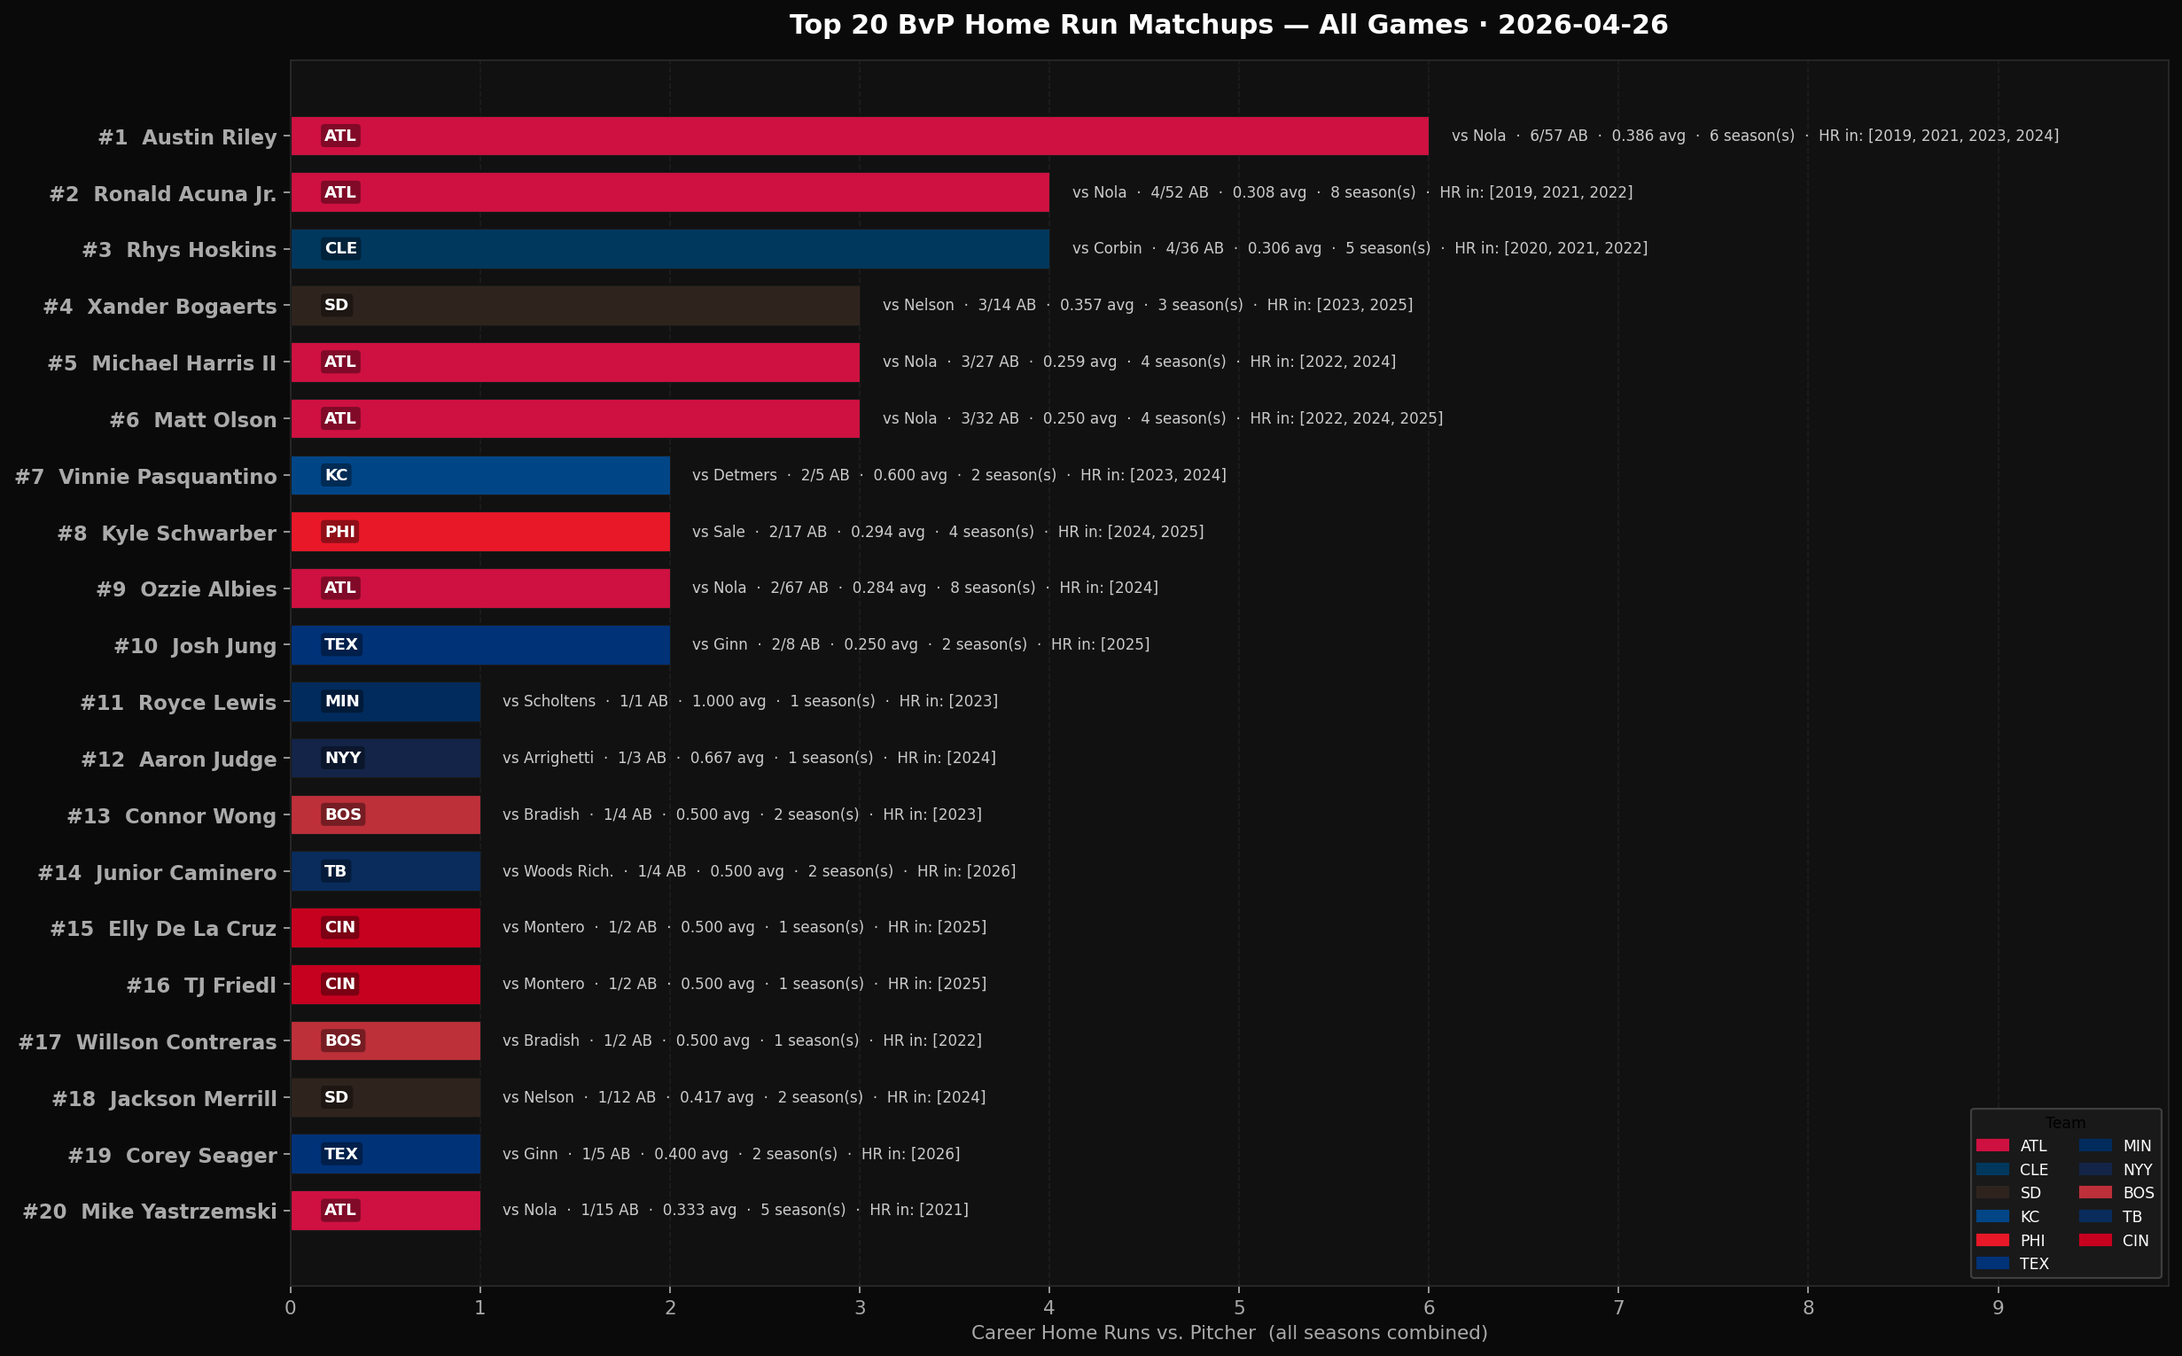
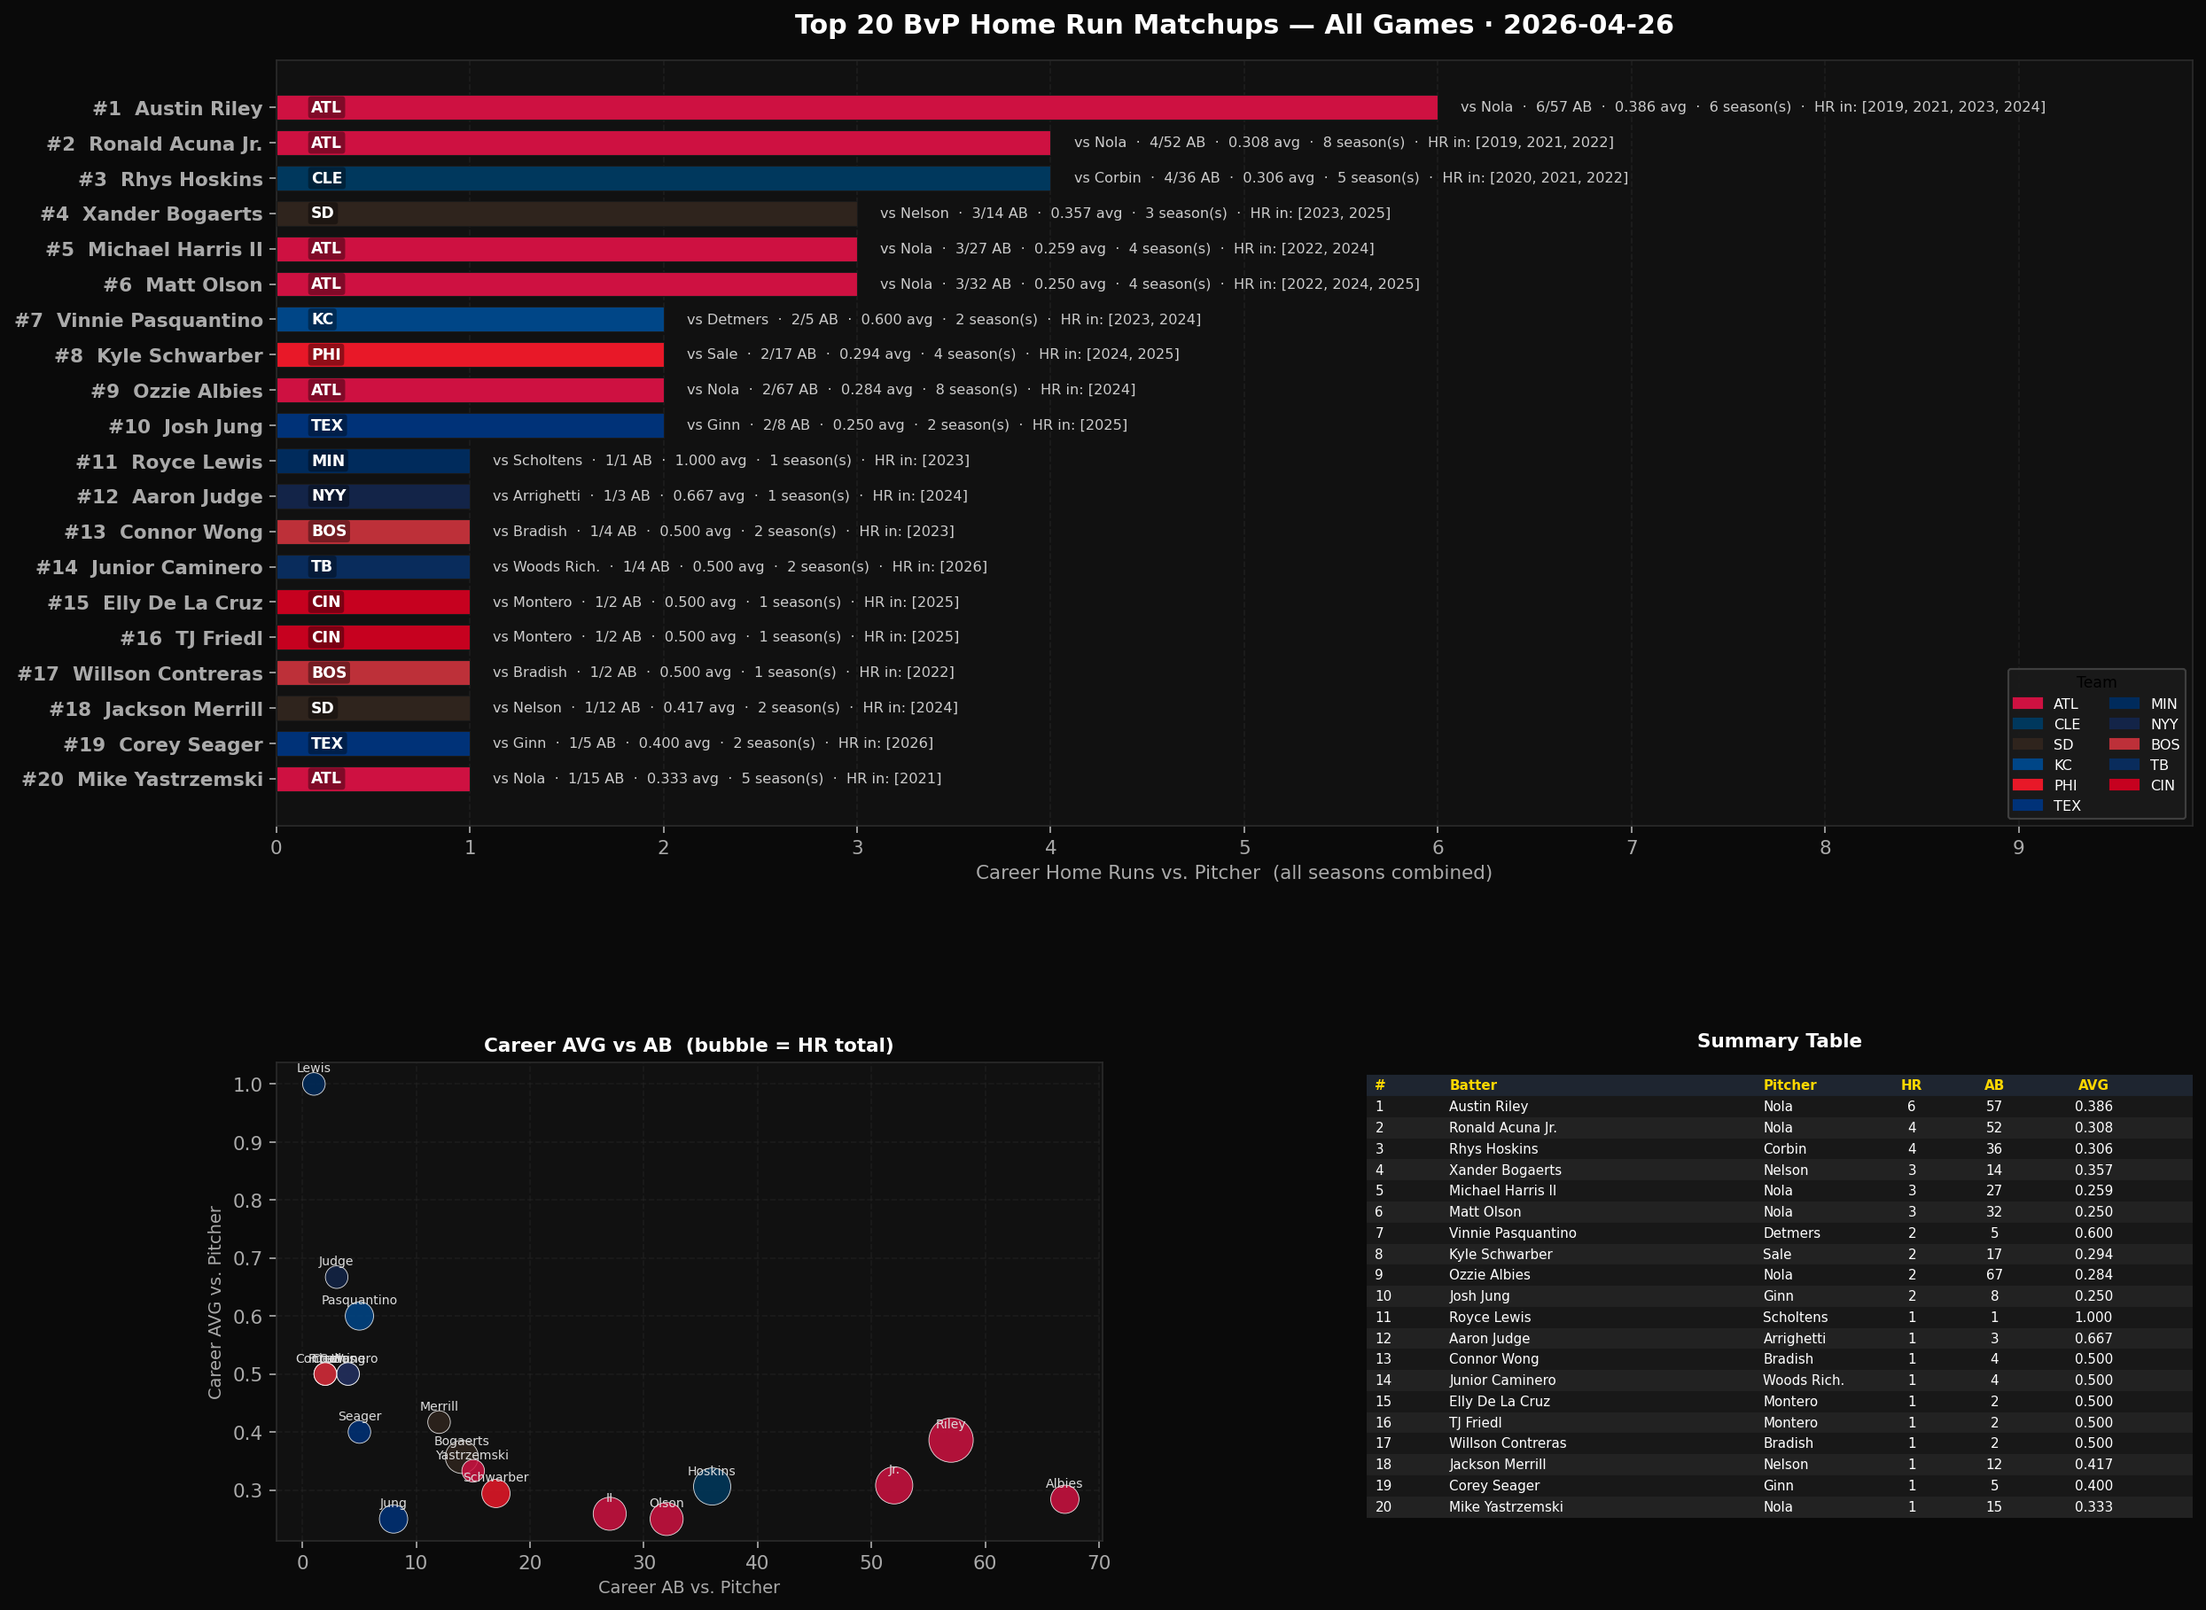
REPORTS WITH TABLES

diff --git a/Streamlit/scripts/bvp_hr_reports.py b/Streamlit/scripts/bvp_hr_reports.py
@@ -163,60 +163,122 @@ def bar_color(team):
     return TEAM_COLORS.get(team, '#666666')
 
 
+# ── Shared: draw a summary table on an axis ───────────────────────────────────
+def _draw_table(ax, rows, headers, col_xs, col_aligns, tiny_ab_col=None, tiny_thresh=5):
+    """Render a plain text table onto a pre-existing axis."""
+    ax.axis('off')
+    rh = 0.044
+    sy = 0.97
+    all_rows = [headers] + rows
+    for ri, row_data in enumerate(all_rows):
+        y = sy - ri * rh
+        bg = '#1E2530' if ri == 0 else ('#222222' if ri % 2 == 0 else '#181818')
+        ax.add_patch(plt.Rectangle((0, y - rh + 0.003), 1.0, rh - 0.002,
+                                    color=bg, transform=ax.transAxes, zorder=1))
+        for ci, (cell, cx, align) in enumerate(zip(row_data, col_xs, col_aligns)):
+            is_tiny = (ri > 0 and tiny_ab_col is not None
+                       and int(rows[ri - 1][tiny_ab_col] or 0) < tiny_thresh)
+            clr = '#FFD700' if ri == 0 else ('#FFAA33' if is_tiny else 'white')
+            fw  = 'bold' if ri == 0 else 'normal'
+            ax.text(cx, y - rh / 2 + 0.003, cell,
+                    transform=ax.transAxes, fontsize=7.0, color=clr,
+                    fontweight=fw, va='center', ha=align, zorder=2)
+    ax.set_xlim(0, 1)
+    ax.set_ylim(0, 1)
+
+
 # ── Report 1: Top 20 raw career HR ───────────────────────────────────────────
 def report_career_hr(results, date_str, out_path):
-    top = sorted(results, key=lambda x: (-x['career_hr'], -x['career_avg'], -x['career_ab']))[:20]
-    n = len(top)
+    from matplotlib.gridspec import GridSpec
 
-    fig, ax = plt.subplots(figsize=(16, 10), facecolor=DARK_BG)
-    ax.set_facecolor(BAR_BG)
+    top = sorted(results, key=lambda x: (-x['career_hr'], -x['career_avg'], -x['career_ab']))[:20]
+    n   = len(top)
+
+    fig = plt.figure(figsize=(18, 14), facecolor=DARK_BG)
+    gs  = GridSpec(2, 2, figure=fig, height_ratios=[1.6, 1], hspace=0.38, wspace=0.32)
+
+    # ── Top: horizontal bar chart (full width) ────────────────────────────────
+    ax_bar = fig.add_subplot(gs[0, :])
+    ax_bar.set_facecolor(BAR_BG)
 
     colors = [bar_color(r['team']) for r in top]
-    bars   = ax.barh(range(n), [r['career_hr'] for r in top],
-                     color=colors, height=0.70, zorder=3,
-                     edgecolor='#1a1a1a', linewidth=0.5)
+    bars   = ax_bar.barh(range(n), [r['career_hr'] for r in top],
+                         color=colors, height=0.70, zorder=3,
+                         edgecolor='#1a1a1a', linewidth=0.5)
 
-    ax.set_yticks(range(n))
-    ax.set_yticklabels([f"#{i+1}  {top[i]['batter']}" for i in range(n)],
-                       fontsize=10.5, color='white', fontweight='bold')
-    ax.set_xlabel("Career Home Runs vs. Pitcher  (all seasons combined)", color=AXIS_CLR, fontsize=10)
-    ax.set_title(f"Top 20 BvP Home Run Matchups — All Games · {date_str}",
-                 color='white', fontsize=14, fontweight='bold', pad=14)
-    ax.tick_params(colors=AXIS_CLR)
-    ax.spines[:].set_color(GRID_CLR)
-    ax.invert_yaxis()
-    ax.set_xlim(0, max(r['career_hr'] for r in top) * 1.65)
-    ax.xaxis.set_major_locator(plt.MaxNLocator(integer=True))
-    ax.grid(axis='x', color=GRID_CLR, linestyle='--', alpha=0.5, zorder=0)
+    ax_bar.set_yticks(range(n))
+    ax_bar.set_yticklabels([f"#{i+1}  {top[i]['batter']}" for i in range(n)],
+                           fontsize=10, color='white', fontweight='bold')
+    ax_bar.set_xlabel("Career Home Runs vs. Pitcher  (all seasons combined)", color=AXIS_CLR, fontsize=10)
+    ax_bar.set_title(f"Top 20 BvP Home Run Matchups — All Games · {date_str}",
+                     color='white', fontsize=14, fontweight='bold', pad=14)
+    ax_bar.tick_params(colors=AXIS_CLR)
+    ax_bar.spines[:].set_color(GRID_CLR)
+    ax_bar.invert_yaxis()
+    ax_bar.set_xlim(0, max(r['career_hr'] for r in top) * 1.65)
+    ax_bar.xaxis.set_major_locator(plt.MaxNLocator(integer=True))
+    ax_bar.grid(axis='x', color=GRID_CLR, linestyle='--', alpha=0.5, zorder=0)
 
     for i, (bar, r) in enumerate(zip(bars, top)):
         bw = bar.get_width()
         by = bar.get_y() + bar.get_height() / 2
+        ax_bar.text(0.18, by, r['team'],
+                    va='center', ha='left', fontsize=8, color='white', fontweight='bold',
+                    bbox=dict(boxstyle='round,pad=0.20', facecolor='#00000060', edgecolor='none'),
+                    zorder=5)
+        ax_bar.text(bw + 0.12, by,
+                    f"vs {r['pitcher']}  ·  {r['career_hr']}/{r['career_ab']} AB  ·  "
+                    f"{r['career_avg']:.3f} avg  ·  {r['num_seasons']} season(s)  ·  "
+                    f"HR in: {r['hr_seasons']}",
+                    va='center', ha='left', fontsize=7.5, color=LABEL_CLR)
 
-        # Team badge inside bar
-        ax.text(0.18, by, r['team'],
-                va='center', ha='left', fontsize=8.5, color='white', fontweight='bold',
-                bbox=dict(boxstyle='round,pad=0.22', facecolor='#00000060', edgecolor='none'),
-                zorder=5)
-
-        # Stats outside bar
-        ax.text(bw + 0.12, by,
-                f"vs {r['pitcher']}  ·  {r['career_hr']}/{r['career_ab']} AB  ·  "
-                f"{r['career_avg']:.3f} avg  ·  {r['num_seasons']} season(s)  ·  "
-                f"HR in: {r['hr_seasons']}",
-                va='center', ha='left', fontsize=7.8, color=LABEL_CLR)
-
-    # Legend — unique teams present
     seen = {}
     for r in top:
         if r['team'] not in seen:
             seen[r['team']] = bar_color(r['team'])
     patches = [mpatches.Patch(color=c, label=t) for t, c in seen.items()]
-    ax.legend(handles=patches, loc='lower right', fontsize=8, facecolor='#1a1a1a',
-              edgecolor='#444', labelcolor='white', title='Team', title_fontsize=8,
-              framealpha=0.9, ncol=2)
+    ax_bar.legend(handles=patches, loc='lower right', fontsize=7.5, facecolor='#1a1a1a',
+                  edgecolor='#444', labelcolor='white', title='Team', title_fontsize=8,
+                  framealpha=0.9, ncol=2)
 
-    plt.tight_layout()
+    # ── Bottom-left: scatter (Career AVG vs AB, bubble = HR total) ───────────
+    ax_sc = fig.add_subplot(gs[1, 0])
+    ax_sc.set_facecolor(BAR_BG)
+    sc_colors = [bar_color(r['team']) for r in top]
+    ax_sc.scatter(
+        [r['career_ab']  for r in top],
+        [r['career_avg'] for r in top],
+        c=sc_colors,
+        s=[r['career_hr'] * 80 + 60 for r in top],
+        alpha=0.85, zorder=3, edgecolors='white', linewidths=0.4,
+    )
+    for r in top:
+        ax_sc.annotate(r['batter'].split()[-1],
+                       (r['career_ab'], r['career_avg']),
+                       fontsize=6.5, color='#DDDDDD', ha='center', va='bottom',
+                       xytext=(0, 5), textcoords='offset points')
+    ax_sc.set_xlabel("Career AB vs. Pitcher", color=AXIS_CLR, fontsize=9)
+    ax_sc.set_ylabel("Career AVG vs. Pitcher", color=AXIS_CLR, fontsize=9)
+    ax_sc.set_title("Career AVG vs AB  (bubble = HR total)", color='white', fontsize=10, fontweight='bold')
+    ax_sc.tick_params(colors=AXIS_CLR)
+    ax_sc.spines[:].set_color(GRID_CLR)
+    ax_sc.grid(color=GRID_CLR, linestyle='--', alpha=0.4)
+
+    # ── Bottom-right: summary table ───────────────────────────────────────────
+    ax_tbl = fig.add_subplot(gs[1, 1])
+    ax_tbl.set_facecolor(BAR_BG)
+    ax_tbl.set_title("Summary Table", color='white', fontsize=10, fontweight='bold', pad=8)
+
+    tbl_headers = ["#", "Batter", "Pitcher", "HR", "AB", "AVG"]
+    tbl_col_xs  = [0.01, 0.10, 0.48, 0.66, 0.76, 0.88]
+    tbl_aligns  = ['left', 'left', 'left', 'center', 'center', 'center']
+    tbl_rows    = [
+        [str(i + 1), r['batter'][:18], r['pitcher'],
+         str(r['career_hr']), str(r['career_ab']), f"{r['career_avg']:.3f}"]
+        for i, r in enumerate(top)
+    ]
+    _draw_table(ax_tbl, tbl_rows, tbl_headers, tbl_col_xs, tbl_aligns)
+
     plt.savefig(out_path, dpi=155, bbox_inches='tight', facecolor=DARK_BG)
     plt.close()
     print(f"  Saved: {out_path}")
@@ -226,61 +288,82 @@ def report_career_hr(results, date_str, out_path):
 def report_hr_rate(results, date_str, out_path, min_ab=5):
     eligible = [r for r in results if r['career_ab'] >= min_ab]
     top = sorted(eligible, key=lambda x: (-x['hr_rate'], -x['career_hr'], -x['career_ab']))[:20]
-    n = len(top)
+    n   = len(top)
     if n == 0:
         print(f"  No matchups with {min_ab}+ AB found — skipping HR rate report.")
         return
 
-    fig, ax = plt.subplots(figsize=(16, max(8, n * 0.52 + 1.5)), facecolor=DARK_BG)
-    ax.set_facecolor(BAR_BG)
+    fig, (ax_bar, ax_tbl) = plt.subplots(
+        1, 2, figsize=(18, max(8, n * 0.52 + 1.5)),
+        facecolor=DARK_BG,
+        gridspec_kw={'width_ratios': [1.7, 1]},
+    )
+    fig.suptitle(f"Top 20 BvP HR Rate Matchups · {min_ab}+ Career AB · All Games · {date_str}",
+                 color='white', fontsize=14, fontweight='bold', y=0.98)
 
+    # ── Left: horizontal bar chart ────────────────────────────────────────────
+    ax_bar.set_facecolor(BAR_BG)
     colors = [bar_color(r['team']) for r in top]
-    bars   = ax.barh(range(n), [r['hr_rate'] for r in top],
-                     color=colors, height=0.70, zorder=3,
-                     edgecolor='#1a1a1a', linewidth=0.5)
+    bars   = ax_bar.barh(range(n), [r['hr_rate'] for r in top],
+                         color=colors, height=0.70, zorder=3,
+                         edgecolor='#1a1a1a', linewidth=0.5)
 
-    ax.set_yticks(range(n))
-    ax.set_yticklabels([f"#{i+1}  {top[i]['batter']}" for i in range(n)],
-                       fontsize=10.5, color='white', fontweight='bold')
-    ax.set_xlabel(f"Career HR Rate  (Total HR ÷ Total AB vs Pitcher, all seasons · min {min_ab} AB)",
-                  color=AXIS_CLR, fontsize=10)
-    ax.set_title(f"Top 20 BvP HR Rate Matchups · {min_ab}+ Career AB · All Games · {date_str}",
-                 color='white', fontsize=14, fontweight='bold', pad=14)
-    ax.tick_params(colors=AXIS_CLR)
-    ax.spines[:].set_color(GRID_CLR)
-    ax.invert_yaxis()
-    ax.set_xlim(0, max(r['hr_rate'] for r in top) * 1.9)
-    ax.xaxis.set_major_formatter(FuncFormatter(lambda v, _: f"{v:.2f}"))
-    ax.grid(axis='x', color=GRID_CLR, linestyle='--', alpha=0.5, zorder=0)
+    ax_bar.set_yticks(range(n))
+    ax_bar.set_yticklabels([f"#{i+1}  {top[i]['batter']}" for i in range(n)],
+                           fontsize=10, color='white', fontweight='bold')
+    ax_bar.set_xlabel(f"Career HR Rate  (Total HR ÷ Total AB vs Pitcher · min {min_ab} AB)",
+                      color=AXIS_CLR, fontsize=9)
+    ax_bar.tick_params(colors=AXIS_CLR)
+    ax_bar.spines[:].set_color(GRID_CLR)
+    ax_bar.invert_yaxis()
+    ax_bar.set_xlim(0, max(r['hr_rate'] for r in top) * 1.85)
+    ax_bar.xaxis.set_major_formatter(FuncFormatter(lambda v, _: f"{v:.2f}"))
+    ax_bar.grid(axis='x', color=GRID_CLR, linestyle='--', alpha=0.5, zorder=0)
 
     for i, (bar, r) in enumerate(zip(bars, top)):
         bw = bar.get_width()
         by = bar.get_y() + bar.get_height() / 2
+        ax_bar.text(0.004, by, r['team'],
+                    va='center', ha='left', fontsize=8, color='white', fontweight='bold',
+                    bbox=dict(boxstyle='round,pad=0.20', facecolor='#00000060', edgecolor='none'),
+                    zorder=5)
+        tiny = r['career_ab'] < min_ab + 3   # flag near-threshold samples
+        label = (f"vs {r['pitcher']}  ·  {r['career_hr']}/{r['career_ab']} AB  ·  "
+                 f"{r['career_avg']:.3f} avg  ·  {r['num_seasons']} season(s)")
+        ax_bar.text(bw + 0.003, by, label,
+                    va='center', ha='left', fontsize=7.5,
+                    color='#FFCC44' if tiny else LABEL_CLR)
 
-        # Team badge inside bar
-        ax.text(0.004, by, r['team'],
-                va='center', ha='left', fontsize=8.5, color='white', fontweight='bold',
-                bbox=dict(boxstyle='round,pad=0.22', facecolor='#00000060', edgecolor='none'),
-                zorder=5)
-
-        # Stats outside bar
-        ax.text(bw + 0.003, by,
-                f"vs {r['pitcher']}  ·  {r['career_hr']}/{r['career_ab']} AB  ·  "
-                f"{r['career_avg']:.3f} avg  ·  {r['num_seasons']} season(s)  ·  "
-                f"HR yrs: {r['hr_seasons']}",
-                va='center', ha='left', fontsize=7.8, color=LABEL_CLR)
-
-    # Legend — unique teams
     seen = {}
     for r in top:
         if r['team'] not in seen:
             seen[r['team']] = bar_color(r['team'])
     patches = [mpatches.Patch(color=c, label=t) for t, c in seen.items()]
-    ax.legend(handles=patches, loc='lower right', fontsize=8, facecolor='#1a1a1a',
-              edgecolor='#444', labelcolor='white', title='Team', title_fontsize=8,
-              framealpha=0.9, ncol=2)
+    ax_bar.legend(handles=patches, loc='lower right', fontsize=7.5, facecolor='#1a1a1a',
+                  edgecolor='#444', labelcolor='white', title='Team', title_fontsize=8,
+                  framealpha=0.9, ncol=2)
 
-    plt.tight_layout()
+    # ── Right: summary table ──────────────────────────────────────────────────
+    ax_tbl.set_facecolor(BAR_BG)
+    ax_tbl.set_title("HR Rate Leaderboard", color='white', fontsize=10, fontweight='bold', pad=8)
+
+    tbl_headers = ["#", "Batter", "Pitcher", "HR", "AB", "Rate", "AVG"]
+    tbl_col_xs  = [0.01, 0.10, 0.44, 0.64, 0.73, 0.83, 0.93]
+    tbl_aligns  = ['left', 'left', 'left', 'center', 'center', 'center', 'center']
+    # tiny_ab_col = index of the AB column in each row (index 4) for orange highlighting
+    tbl_rows    = [
+        [str(i + 1), r['batter'][:16], r['pitcher'],
+         str(r['career_hr']), str(r['career_ab']),
+         f"{r['hr_rate']:.3f}", f"{r['career_avg']:.3f}"]
+        for i, r in enumerate(top)
+    ]
+    _draw_table(ax_tbl, tbl_rows, tbl_headers, tbl_col_xs, tbl_aligns,
+                tiny_ab_col=4, tiny_thresh=min_ab + 3)
+    ax_tbl.text(0.01, 0.005,
+                f"⚠ Orange = fewer than {min_ab + 3} career AB vs pitcher",
+                transform=ax_tbl.transAxes, fontsize=6.5, color='#FFAA33', va='bottom')
+
+    plt.tight_layout(rect=[0, 0, 1, 0.96])
     plt.savefig(out_path, dpi=155, bbox_inches='tight', facecolor=DARK_BG)
     plt.close()
     print(f"  Saved: {out_path}")
